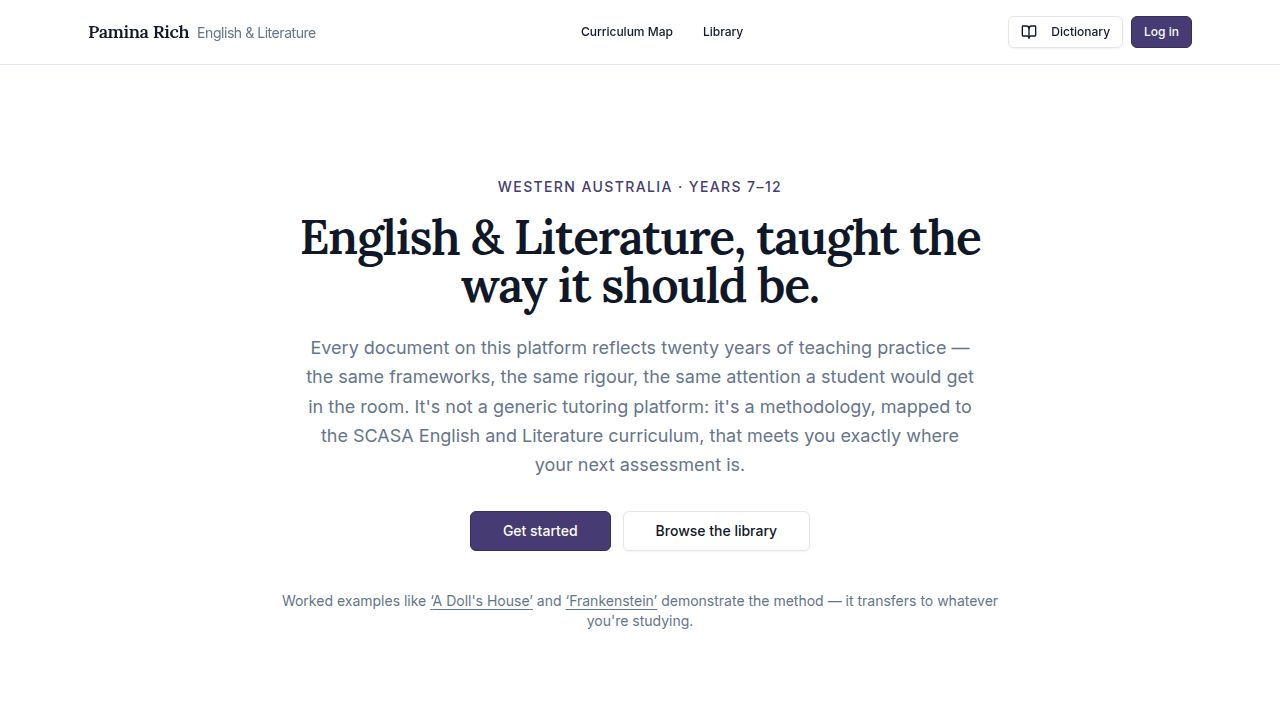
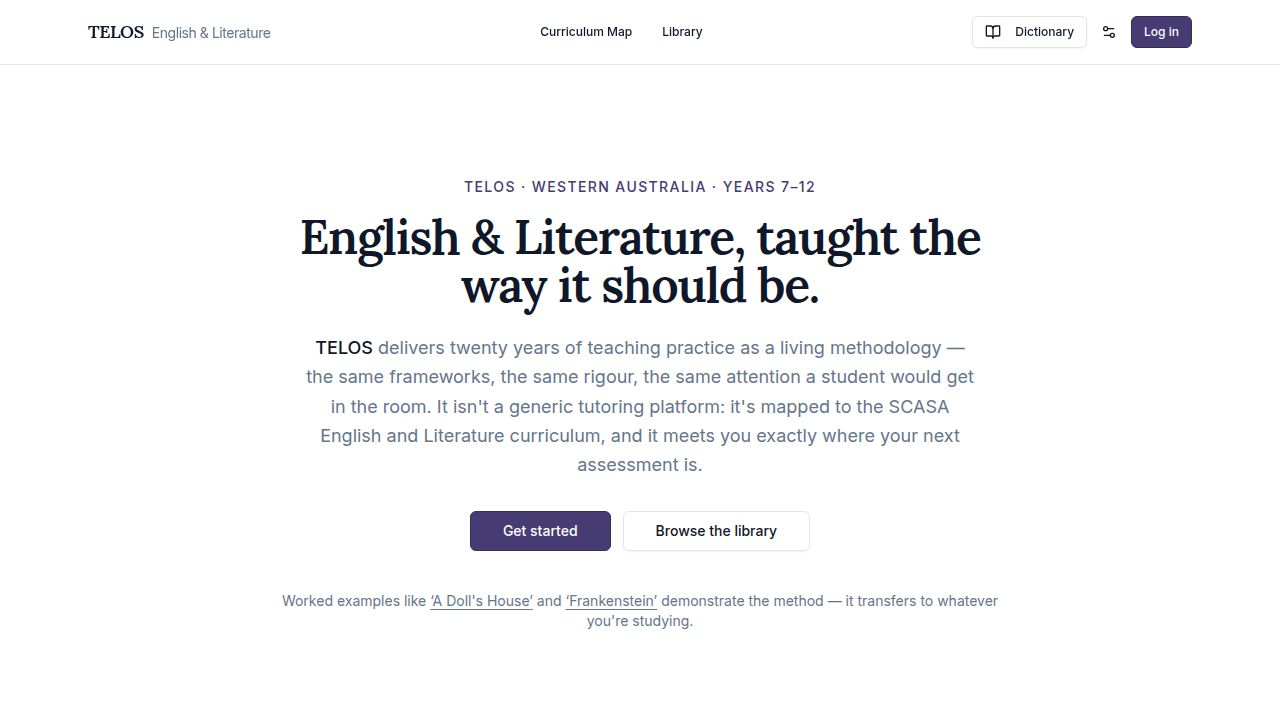
Update setup guide to improve process stability and restart reliability
Refine claude-tmux-setup.md with clarifications on process management and memory allocation for improved stability and restart procedures.

Replit-Commit-Author: Agent
Replit-Commit-Session-Id: ff8f4e75-9a78-48b3-8fa3-66e4125cb033
Replit-Commit-Checkpoint-Type: full_checkpoint
Replit-Commit-Event-Id: bdd23bb9-eb95-463c-aac6-aa440a02302d
Replit-Commit-Screenshot-Url: https://storage.googleapis.com/screenshot-production-us-central1/197aa7c4-6069-48c3-bdbe-632396a38dbb/ff8f4e75-9a78-48b3-8fa3-66e4125cb033/kjFSdLS
Replit-Helium-Checkpoint-Created: true

diff --git a/claude-tmux-setup.md b/claude-tmux-setup.md
@@ -374,7 +374,11 @@ Claude Code is a long-running Node process. On Replit it dies in three ways:
 
 `tmux` solves the first (the Claude process is detached from the pane).
 A bigger Node heap (`NODE_OPTIONS=--max-old-space-size=…`) solves the
-second. The third can't be prevented, so it's handled by **recovery** instead:
+second. The third can't be prevented from inside the workspace — a plain
+Replit workspace VM gets deallocated on Replit's schedule (roughly nightly,
+sometimes in daytime clusters), and nothing running *in* it, tmux included,
+can keep it alive; genuinely 24/7 uptime is what a Reserved VM / Always-On
+deployment is for, not a dev workspace. So it's handled by **recovery** instead:
 the *conversation* survives a recycle because transcripts live in the persisted
 `CLAUDE_CONFIG_DIR` (Step 7), and `run-claude.sh` **auto-resumes** it — when the
 prior run died without a clean exit, the next launch runs `claude --continue`
@@ -410,7 +414,13 @@ command -v tmux && tmux -V || echo "→ tmux not installed yet"
 
 # What's the container's memory cap? (sets the right heap size)
 cat /sys/fs/cgroup/memory.max 2>/dev/null || echo "→ no cgroup v2"
-free -h 2>/dev/null | head -2
+# Baseline already in use — read THIS CONTAINER's cgroup, not free -h (which on
+# Replit's shared nodes reports the whole host; see Step 2):
+awk '{printf "→ container baseline: %.1f GB\n", $1/1024/1024/1024}' \
+  /sys/fs/cgroup/memory.current 2>/dev/null \
+  || cat /sys/fs/cgroup/memory/memory.usage_in_bytes 2>/dev/null \
+  || echo "→ no cgroup baseline readable"
+free -h 2>/dev/null | head -2   # host-wide — sanity check only, NOT the baseline
 
 # Which package manager is available for installing tmux?
 command -v nix-env  && echo "→ legacy Nix available"
@@ -438,8 +448,17 @@ previous attempt) — flag it. That's what stops yesterday's headache.
 > looks identical to the heap-abort (134) the setting was meant to prevent.
 
 **Don't size the heap to `memory.max`. Size it to what's actually free.** From
-Step 1 you have both the cap (`memory.max`) and the baseline already in use
-(`free -h` / `memory.current`). The rule:
+Step 1 you have both the cap (`memory.max`) and the baseline already in use —
+and the baseline must come from the **cgroup** (`memory.current`;
+`memory.usage_in_bytes` on cgroup v1), **not** from `free -h`. On Replit's
+shared nodes `free -h` reports the *entire host*, not your container: its
+"used" figure can overstate the container's real baseline by many GB and
+swings with other tenants' load (observed on one Repl: `free -h` "used" went
+14 GiB → 4.3 GiB within minutes while the container's own `memory.current`
+sat near ~3.7 GB the whole time). Plugged into the formula below, the inflated
+figure yields a uselessly tiny — or negative — heap, and a different answer
+every run. Use `free -h` only as a rough sanity check, or a fallback when the
+cgroup files are unreadable. The rule:
 
 ```
 heap ceiling  ≈  container cap  −  baseline already in use  −  ~3 GB safety margin
@@ -450,7 +469,8 @@ child processes, tmux, the shell) plus growth in the baseline during a session.
 Round **down** to a clean GB value and set that as `--max-old-space-size` (in MB).
 
 **Worked example — the Repl this doc was last installed on (16 GB cap):**
-`free -h` showed **~4.5 GB already used** at idle, before Claude grew. So:
+the cgroup baseline (`memory.current`) showed **~4.5 GB already used** at
+idle, before Claude grew. So:
 
 ```
 16 GB cap − 4.5 GB baseline − 3 GB margin  ≈  8 GB  →  --max-old-space-size=8192
@@ -897,6 +917,40 @@ esac
 chmod +x claude-tmux.sh run-claude.sh
 grep -qxF 'claude-logs/' .gitignore 2>/dev/null || echo 'claude-logs/' >> .gitignore
 ```
+
+> **Run the `.gitignore` line immediately — same breath as writing the scripts,
+> before Step 4's first launch.** Replit's background Agent auto-checkpoint
+> commits new repo-root files within seconds of their creation; on one fresh
+> install it grabbed the launcher scripts *and* the just-created `claude-logs/`
+> runtime dir in a single auto-commit before the ignore line had run. And a
+> **tracked** file overrides `.gitignore` (the same race Part 4 Step 2b
+> documents for `.claude/settings.local.json`), so adding the ignore afterwards
+> silently does nothing — the confusing symptom is `git check-ignore` reporting
+> the path as ignored while the logs keep showing up in `git status`. If a
+> checkpoint beat you to it, untrack them (keeps the local files):
+>
+> ```sh
+> git ls-files claude-logs | grep -q . && git rm -r --cached claude-logs
+> ```
+>
+> **None of the Claude-tmux scaffolding needs to be pushed to GitHub.** The
+> Part 4 GitHub mirror exists to back up *the app's own code*; everything this
+> doc installs is regenerable and therefore optional to track:
+>
+> | Scaffolding | Why a push adds nothing |
+> |---|---|
+> | `claude-tmux-setup.md` (this doc) | re-fetched daily from the central app by the auto-update hook |
+> | `run-claude.sh` / `claude-tmux.sh` / `claude-autostart.sh` | auto-synced from this doc's marked script blocks (v2 hook) |
+> | `claude-logs/`, `.worklog-reported` | runtime state — should be gitignored anyway (above) |
+> | `$REPL_HOME/.config/*` (bashrc hooks, claude login) | outside the repo; never committed |
+>
+> Committing the doc + launcher scripts is still fine and is the default (they
+> then ride along on normal pushes — harmless). But if you'd rather keep the
+> repo's GitHub history free of scaffolding noise, adding all of them to
+> `.gitignore` loses nothing: a fresh container heals itself from the durable
+> bashrc hooks and the central app. Either way, **never commit on the
+> scaffolding's account alone** — the worklog scope rule in Part 2 applies (a
+> setup-only session needs no commit, and its changes never *require* a push).
 
 ---
 
@@ -1365,7 +1419,8 @@ which tmux
 ### Exit 134 (SIGABRT — heap exhaustion) still happens
 
 The heap ceiling wasn't enough (very long session, large repo). Before raising
-it, re-check the baseline (`free -h`) — you can only raise the ceiling by as much
+it, re-check the baseline (cgroup `memory.current`, not `free -h` — see
+Step 2) — you can only raise the ceiling by as much
 free headroom as you actually have, or you'll just convert this into an exit-137
 OOM (see below). If there's room, bump it by ~2 GB:
 
@@ -1386,7 +1441,7 @@ the cap. Confirm it:
 ```sh
 grep oom_kill /sys/fs/cgroup/memory.events     # non-zero count = OOM happened
 cat /sys/fs/cgroup/memory.max                  # the cap
-free -h                                         # baseline 'used' before Claude grows
+cat /sys/fs/cgroup/memory.current              # this container's baseline (not free -h)
 ```
 
 The fix is **lower the heap ceiling**, not raise it — re-run the Step 2 formula
@@ -1546,6 +1601,77 @@ in a clean headless browser (Part 3) and grep the DOM / loaded chunk for a
 known-new string. New there but old in your browser means it's a client/edge
 cache, not a bad deploy.
 
+### The auto-generated `Project` runButton silently runs TWO app dev servers
+
+> Another *app-you're-deploying* quirk (like the edge-cache entry above), and a
+> close cousin of Step 8 — same `.replit` run-button workflow, opposite problem:
+> instead of adding a task you want, the scaffold added one you don't. Worth
+> checking on any Agent-scaffolded Repl, because the symptom is invisible until
+> side effects double.
+
+**Symptom:** every boot launches **two full instances** of the app's dev server.
+The webview only shows one, so nothing looks wrong — until you notice doubled
+side effects: a scheduler/cron self-POST firing twice, webhooks processed twice,
+two copies of a DB scraper, wasted RAM/CPU (which also eats into the Step 2 heap
+headroom).
+
+**Cause:** Replit's Agent frequently scaffolds `.replit` with a parallel
+wrapper workflow that *both* shell-execs a dev server on a second port *and*
+runs the real workflow — which starts its own dev server:
+
+```toml
+[workflows]
+runButton = "Project"
+
+[[workflows.workflow]]
+name = "Project"
+mode = "parallel"
+[[workflows.workflow.tasks]]
+task = "shell.exec"
+args = "PORT=8081 ... pnpm run dev"   # instance A (second port)
+[[workflows.workflow.tasks]]
+task = "workflow.run"
+args = "My App"                       # instance B — also runs `pnpm run dev`
+```
+
+There's usually a matching inert `[[ports]] localPort = <second port>` block
+left over too.
+
+**Detect it** (any app):
+
+```sh
+ps -eo pid,ppid,etime,args | grep -E "run dev|watch|index\.(t|j)s" | grep -v grep
+```
+
+Two identical dev-server process trees (often both parented by Replit's
+supervisor) means you're running doubles. Corroborate by grepping the app logs
+for the startup banner / "listening on" appearing twice per boot, or any
+self-POST/heartbeat firing twice.
+
+**Fix** — point the run button straight at the single real workflow and delete
+the wrapper plus its extra port:
+
+```toml
+[workflows]
+runButton = "My App"          # was "Project"
+
+[[workflows.workflow]]
+name = "My App"
+[[workflows.workflow.tasks]]
+task = "shell.exec"
+args = "pnpm run dev"
+waitForPort = 8080
+# (delete the whole `Project` workflow and the second [[ports]] block)
+```
+
+Takes effect on the next workflow restart / VM boot; the already-running
+duplicate persists until then (kill it or restart the workflow). This is pure
+hygiene — it does **not** stop Replit's workspace VM recycles (see "Why this
+exists" at the top of Part 1) — but it removes a real, easy-to-miss source of
+double side effects. If you later add Step 8's autostart task, you'll be
+editing this same workflow — make sure you're extending the *real* one, not
+resurrecting the wrapper.
+
 ---
 
 ## When you're done — what to report back to the user
@@ -1554,9 +1680,9 @@ A short status with the four facts that matter:
 
 1. **Binary:** the `[bin]` line from the meta log (where `claude` actually
    resolved on this Repl).
-2. **Container cap + baseline:** what `memory.max` returned, the baseline `used`
-   from `free -h`, and which `--max-old-space-size` the Step 2 formula gave
-   (`cap − baseline − ~3 GB`).
+2. **Container cap + baseline:** what `memory.max` returned, the container
+   baseline from cgroup `memory.current`, and which `--max-old-space-size` the
+   Step 2 formula gave (`cap − baseline − ~3 GB`).
 3. **tmux:** was it already installed, or did you install it via Nix?
 4. **Verification:** confirmed the session reattaches across `Ctrl-b d` →
    re-running the launcher, and that the Step 6 `claude` shadow function is in